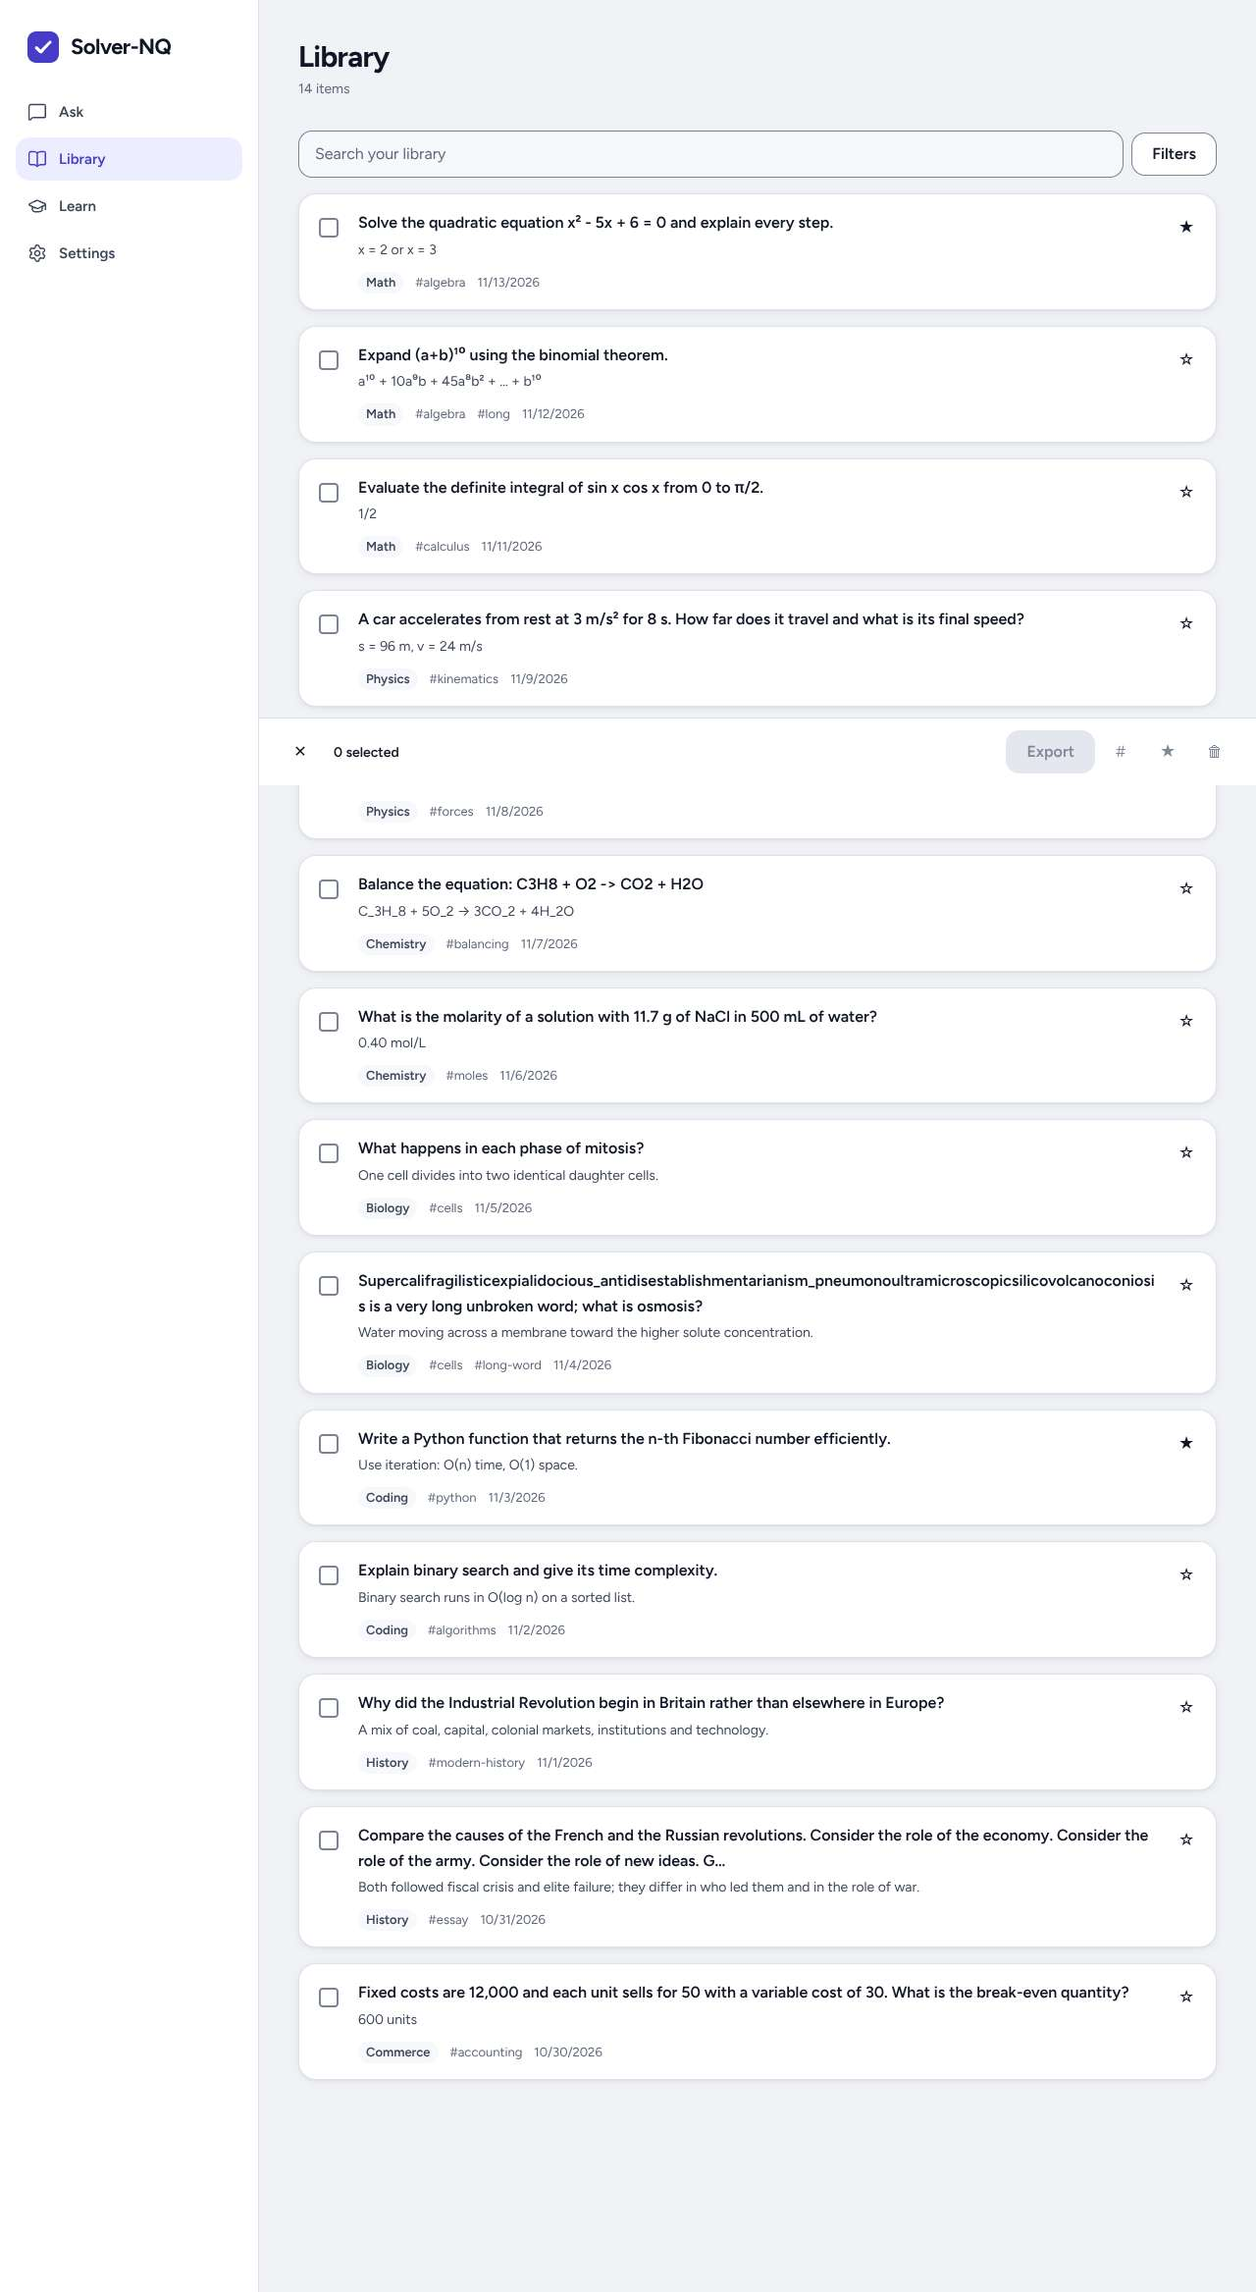
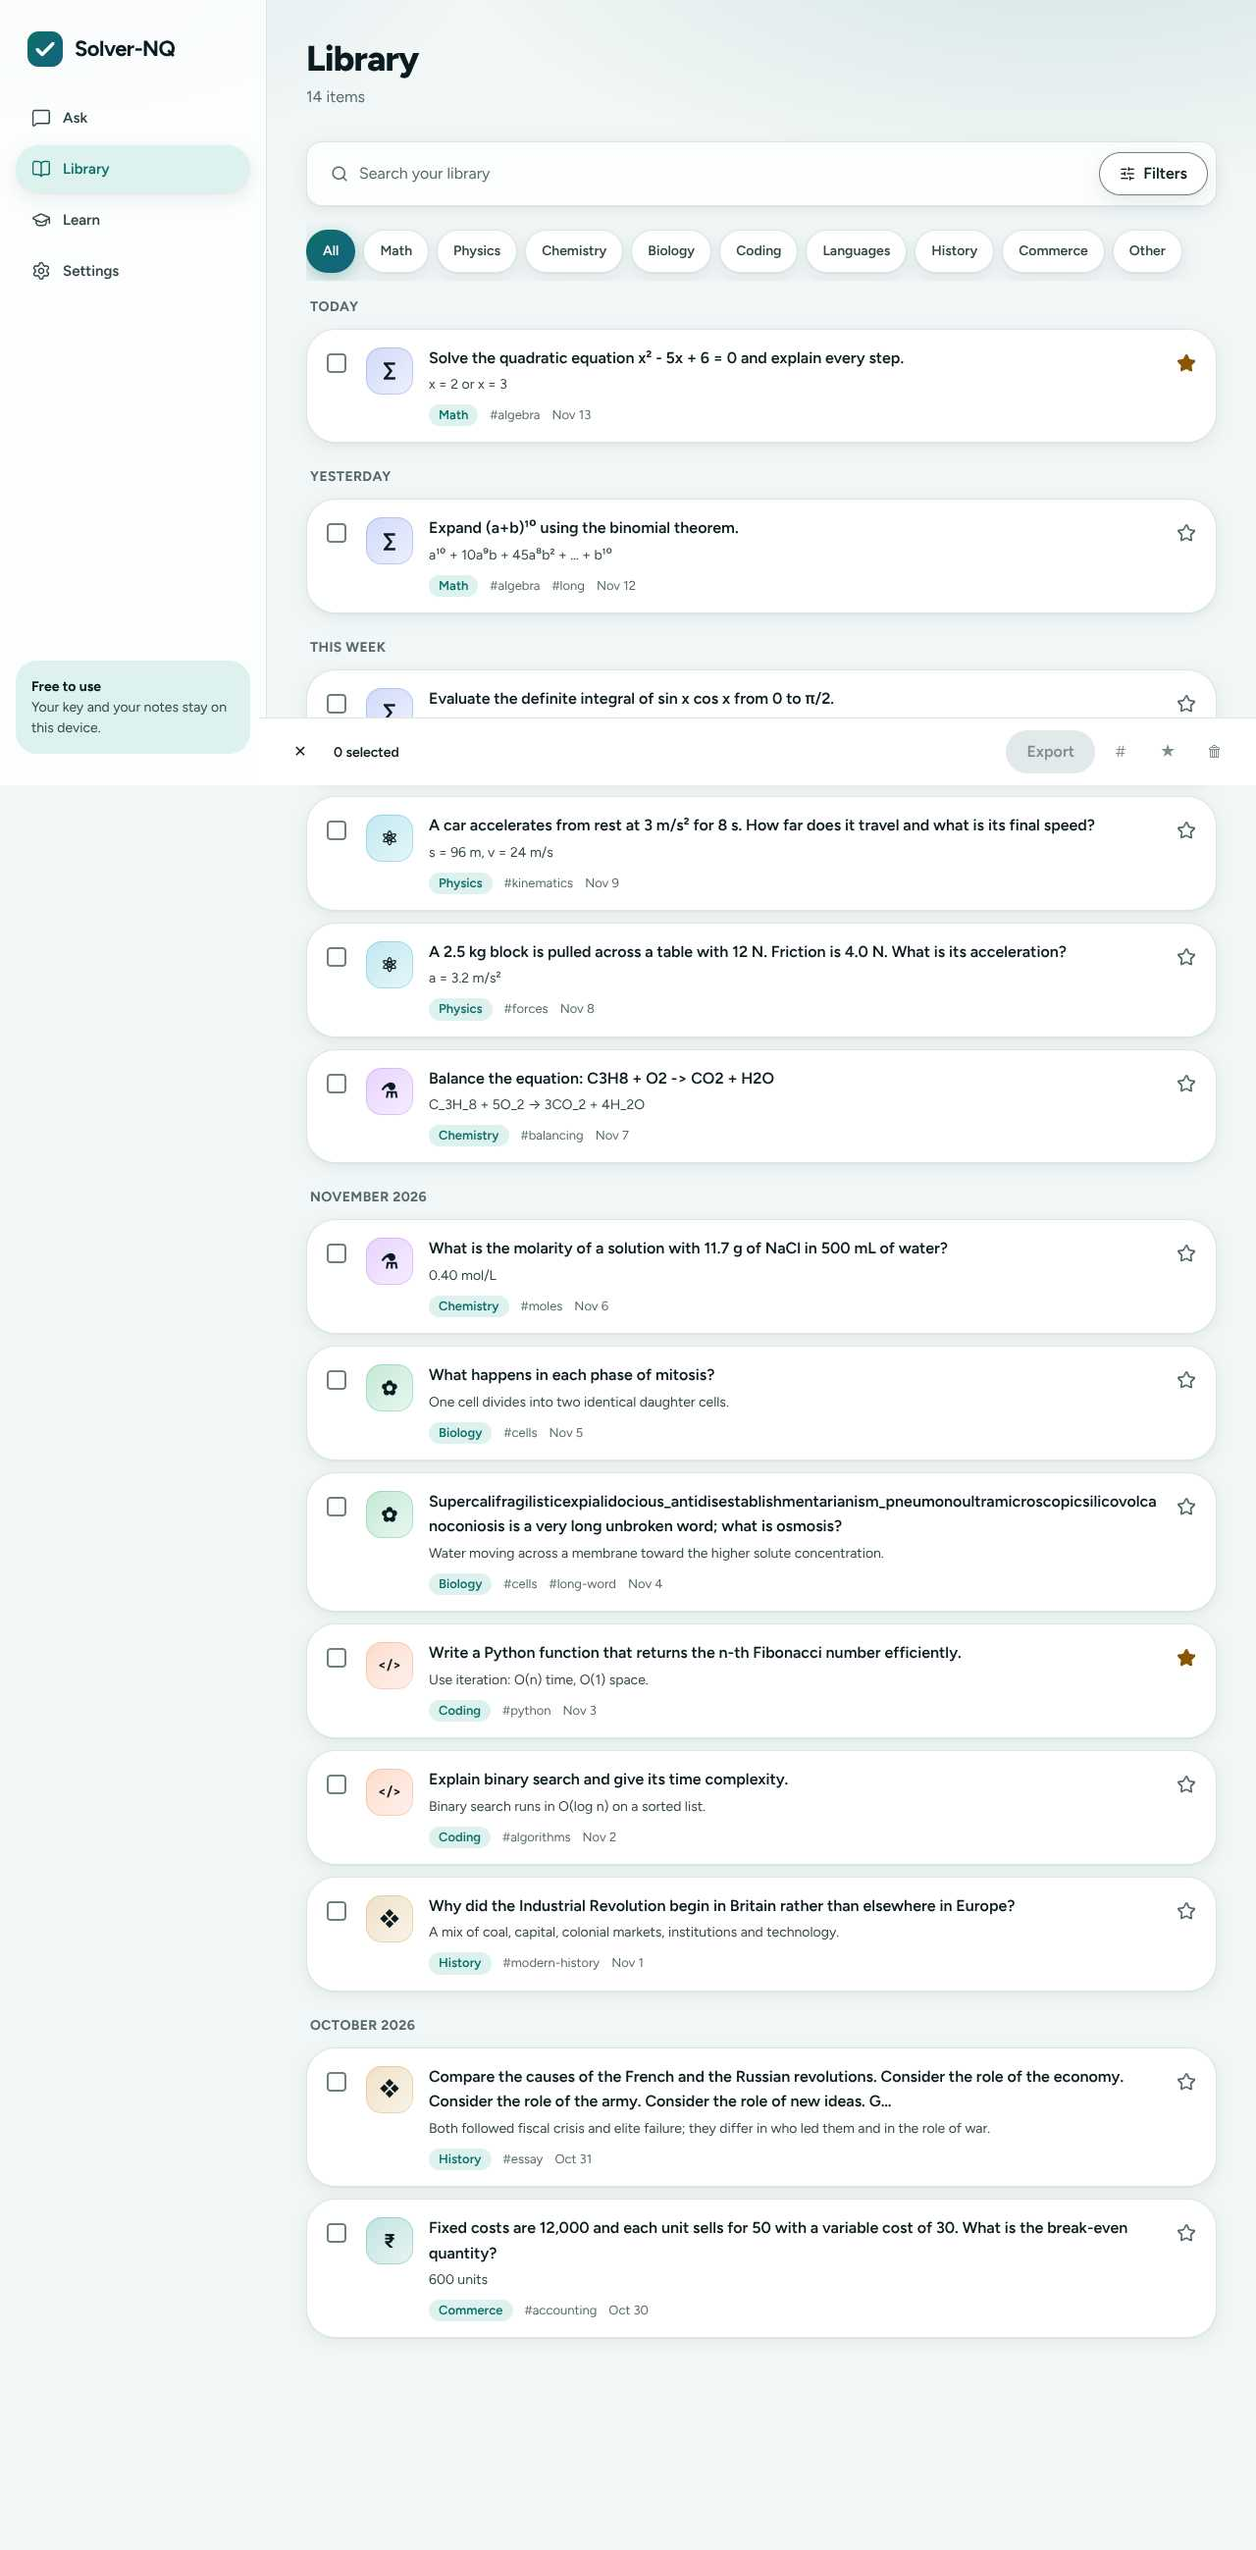
[AI-3] Design v3: Library (glass search, subject rail, stats, day groups, skeletons, rounder rows); screenshots; status

diff --git a/src/features/library/LibraryPage.tsx b/src/features/library/LibraryPage.tsx
@@ -1,8 +1,13 @@
 import { useEffect, useState, type KeyboardEvent } from 'react';
 import { Link, useNavigate } from 'react-router-dom';
-import { Button, EmptyState, Input, PageHeader, Section, Stack, Toolbar, cn } from '@/components/ui';
+import { Search, SlidersHorizontal } from 'lucide-react';
+import { Button, EmptyState, Input, PageHeader, Section, Stack, cn } from '@/components/ui';
 import { FilterChips } from './FilterChips';
 import { FilterSheet } from './FilterSheet';
+import { groupByDay, libraryStats } from './grouping';
+import { LibraryStats } from './LibraryStats';
+import { RowSkeletons } from './RowSkeleton';
+import { SubjectRail } from './SubjectRail';
 import { Row } from './Row';
 import { SelectionBar } from './SelectionBar';
 import { AddTagSheet, ManageTagsSheet } from './TagSheet';
@@ -11,7 +16,7 @@ import { useLibrary } from './useLibrary';
 const PAGE = 40; // render in pages so thousands of items stay fast (measured, see docs/status/AI-3.md)
 
 /** Arrow keys move between rows; Home/End jump to the first/last. */
-function rowKeys(e: KeyboardEvent<HTMLUListElement>) {
+function rowKeys(e: KeyboardEvent<HTMLElement>) {
   const keys = ['ArrowDown', 'ArrowUp', 'Home', 'End'];
   if (!keys.includes(e.key)) return;
   const rows = [...e.currentTarget.querySelectorAll<HTMLElement>('[data-row]')];
@@ -46,20 +51,25 @@ export default function LibraryPage() {
         actions={!selecting && !!items?.length ? <Button variant="secondary" onClick={lib.startSelecting}>Select</Button> : undefined} />
       <Section>
         <Stack gap={4}>
-          <Toolbar className="flex-nowrap">
-            <Input type="search" value={lib.query} onChange={e => lib.setQuery(e.target.value)} placeholder="Search your library"
-              aria-label="Search library" className="min-w-0 flex-1" />
-            <Button variant="secondary" className="shrink-0" onClick={() => setSheet('filters')} aria-label={active ? `Filters, ${active} active` : 'Filters'}>
-              Filters{active > 0 && <span className="ml-2 rounded-full bg-accent px-2 text-caption text-white">{active}</span>}
+          <div className="glass elev-1 sticky top-[calc(var(--sat)+0.5rem)] z-20 flex items-center gap-2 rounded-2xl p-2">
+            <div className="relative min-w-0 flex-1">
+              <Search size={18} aria-hidden className="pointer-events-none absolute left-4 top-1/2 -translate-y-1/2 text-muted" />
+              <Input type="search" value={lib.query} onChange={e => lib.setQuery(e.target.value)} placeholder="Search your library"
+                aria-label="Search library" className="w-full border-transparent bg-transparent pl-11 shadow-none" />
+            </div>
+            <Button variant="secondary" className="shrink-0 gap-2" onClick={() => setSheet('filters')} aria-label={active ? `Filters, ${active} active` : 'Filters'}>
+              <SlidersHorizontal size={16} aria-hidden /><span className="hidden sm:inline">Filters</span>{active > 0 && <span className="rounded-full bg-accent px-2 text-caption text-accent-ink">{active}</span>}
             </Button>
-          </Toolbar>
+          </div>
+          <SubjectRail value={lib.filters.subject} onChange={subject => lib.setFilters({ ...lib.filters, subject })} />
+          {!filtered && !!items?.length && !selecting && <LibraryStats {...libraryStats(items)} />}
           <FilterChips filters={lib.filters} onChange={lib.setFilters} />
 
-          {items === null && <p className="py-16 text-center text-muted">Loading…</p>}
+          {items === null && <RowSkeletons />}
           {items?.length === 0 && (filtered
             ? <EmptyState title="Nothing matches" text="Try a different search, or clear the filters."
                 action={<Button variant="secondary" onClick={() => { lib.setQuery(''); lib.setFilters({}); }}>Clear search and filters</Button>} />
-            : <EmptyState icon={<span className="text-4xl">📚</span>} title="Your library is empty"
+            : <EmptyState icon={<span className="brand-grad flex h-20 w-20 items-center justify-center rounded-3xl text-4xl shadow-glow" aria-hidden>📚</span>} title="Your library is empty"
                 text="Ask a question or scan one from your notebook. Every answer is saved here automatically, so you can find it again, even offline."
                 action={<div className="flex flex-wrap justify-center gap-3">
                   <Link to="/"><Button>Ask a question</Button></Link>
@@ -67,12 +77,19 @@ export default function LibraryPage() {
                 </div>} />)}
           {!!items?.length && (
             <>
-              <ul className="flex flex-col gap-4" onKeyDown={rowKeys}>
-                {items.slice(0, shown).map(it => (
-                  <Row key={it.q.id} item={it} selecting={selecting} selected={lib.selected.has(it.q.id)}
-                    onToggle={() => lib.toggle(it.q.id)} onStar={() => void lib.toggleStar(it.q.id, !it.q.starred)} />
+              <div className="flex flex-col gap-6" onKeyDown={rowKeys}>
+                {groupByDay(items.slice(0, shown)).map(g => (
+                  <section key={g.label} aria-label={g.label} className="flex flex-col gap-3">
+                    <h2 className="px-1 text-sm font-bold uppercase tracking-wide text-muted">{g.label}</h2>
+                    <ul className="flex flex-col gap-3">
+                      {g.items.map(it => (
+                        <Row key={it.q.id} item={it} selecting={selecting} selected={lib.selected.has(it.q.id)}
+                          onToggle={() => lib.toggle(it.q.id)} onStar={() => void lib.toggleStar(it.q.id, !it.q.starred)} />
+                      ))}
+                    </ul>
+                  </section>
                 ))}
-              </ul>
+              </div>
               {shown < items.length && (
                 <Button variant="secondary" className="mx-auto" onClick={() => setShown(n => n + PAGE)}>Show more ({items.length - shown})</Button>
               )}

diff --git a/src/features/library/Row.tsx b/src/features/library/Row.tsx
@@ -1,5 +1,6 @@
 import { useEffect, useRef, useState } from 'react';
 import { Link } from 'react-router-dom';
+import { Star } from 'lucide-react';
 import { IconButton, SubjectTile, cn } from '@/components/ui';
 import { mathToPlain } from '@/features/answer/plainText';
 import { getImageUrl, type LibraryItem } from '@/lib/db';
@@ -38,23 +39,23 @@ export function Row({ item, selecting, selected, onToggle, onStar }: Props) {
   const body = (
     <div className="flex min-w-0 flex-1 gap-4">
       {thumb
-        ? <img src={thumb} alt="" className="h-16 w-16 shrink-0 rounded-md object-cover" />
+        ? <img src={thumb} alt="" className="h-12 w-12 shrink-0 rounded-xl object-cover" />
         : <SubjectTile subject={q.subject} size={48} className="mt-0.5" />}
       <div className="min-w-0 flex-1">
         <p className="line-clamp-2 break-words text-base font-semibold text-ink">{snippet(q.text, 160) || 'Scanned question'}</p>
         {a && <p className="mt-1 line-clamp-2 break-words text-sm text-ink-2">{snippet(a.finalAnswer, 140)}</p>}
-        <div className="mt-3 flex flex-wrap items-center gap-x-3 gap-y-1 text-caption text-muted">
+        <div className="mt-2.5 flex flex-wrap items-center gap-x-3 gap-y-1 text-caption text-muted">
           <span className="rounded-full bg-accent-soft px-2.5 py-0.5 font-semibold text-accent">{subjectLabel(q.subject)}</span>
           {q.tags.slice(0, 3).map(t => <span key={t} className="max-w-[10rem] truncate">#{t}</span>)}
           {q.tags.length > 3 && <span>+{q.tags.length - 3}</span>}
-          <span className="whitespace-nowrap">{new Date(q.createdAt).toLocaleDateString()}</span>
+          <span className="whitespace-nowrap">{new Date(q.createdAt).toLocaleDateString(undefined, { month: 'short', day: 'numeric' })}</span>
         </div>
       </div>
     </div>
   );
 
   return (
-    <li className={cn('elev-1 flex min-h-[64px] items-start gap-2 rounded-lg p-4', selected && 'border-accent bg-accent-soft')}
+    <li className={cn('elev-1 flex min-h-[64px] items-start gap-2 rounded-xl p-4 transition active:scale-[.99]', selected && 'border-accent bg-accent-soft ring-2 ring-accent')}
       onPointerDown={down} onPointerUp={up} onPointerLeave={up} onPointerCancel={up}>
       {selecting && (
         // Decision: a bare checkbox (<Checkbox> needs visible text; the row already has it). The real input fills a 44 px
@@ -68,7 +69,7 @@ export function Row({ item, selecting, selected, onToggle, onStar }: Props) {
       {selecting
         ? <button type="button" data-row onClick={onToggle} className="min-w-0 flex-1 text-left">{body}</button>
         : <Link to={a ? `/answer/${a.id}` : '/'} data-row className="min-w-0 flex-1" onClick={e => { if (longPressed.current) e.preventDefault(); }}>{body}</Link>}
-      <IconButton label={q.starred ? 'Unstar' : 'Star'} aria-pressed={q.starred} className="-my-1 -mr-2" onClick={onStar}>{q.starred ? '★' : '☆'}</IconButton>
+      <IconButton label={q.starred ? 'Unstar' : 'Star'} aria-pressed={q.starred} className="-my-1 -mr-2" onClick={onStar}><Star size={20} strokeWidth={2} aria-hidden className={q.starred ? 'fill-[rgb(var(--warn))] text-warn' : 'text-muted'} /></IconButton>
     </li>
   );
 }

diff --git a/src/features/library/grouping.ts b/src/features/library/grouping.ts
@@ -1,0 +1,24 @@
+import type { LibraryItem } from '@/lib/db';
+
+export interface DayGroup { label: string; items: LibraryItem[] }
+
+const startOfDay = (t: number) => { const d = new Date(t); d.setHours(0, 0, 0, 0); return d.getTime(); };
+
+/** Labels for a newest-first list: Today, Yesterday, This week, then one group per month. */
+export function groupByDay(items: LibraryItem[], now = Date.now()): DayGroup[] {
+  const today = startOfDay(now); const day = 86_400_000;
+  const groups: DayGroup[] = [];
+  for (const it of items) {
+    const t = it.q.createdAt; const s = startOfDay(t);
+    const label = s >= today ? 'Today' : s >= today - day ? 'Yesterday' : s >= today - 6 * day ? 'This week'
+      : new Date(t).toLocaleDateString(undefined, { month: 'long', year: 'numeric' });
+    const last = groups[groups.length - 1];
+    if (last && last.label === label) last.items.push(it); else groups.push({ label, items: [it] });
+  }
+  return groups;
+}
+
+export function libraryStats(items: LibraryItem[], now = Date.now()) {
+  const week = startOfDay(now) - 6 * 86_400_000;
+  return { total: items.length, starred: items.filter(i => i.q.starred).length, thisWeek: items.filter(i => i.q.createdAt >= week).length };
+}

diff --git a/src/features/library/grouping.test.ts b/src/features/library/grouping.test.ts
@@ -1,0 +1,20 @@
+import { describe, expect, it } from 'vitest';
+import type { LibraryItem } from '@/lib/db';
+import { groupByDay, libraryStats } from './grouping';
+
+const NOW = new Date(2026, 10, 13, 15, 0).getTime(); const DAY = 86_400_000;
+const mk = (id: string, createdAt: number, starred = false) => ({ q: { id, createdAt, starred }, a: undefined }) as unknown as LibraryItem;
+
+describe('library grouping', () => {
+  it('groups newest-first items into Today, Yesterday, This week and months', () => {
+    const g = groupByDay([mk('a', NOW - 1000), mk('b', NOW - 2000), mk('c', NOW - DAY), mk('d', NOW - 3 * DAY), mk('e', NOW - 60 * DAY)], NOW);
+    expect(g.map(x => x.label).slice(0, 3)).toEqual(['Today', 'Yesterday', 'This week']);
+    expect(g[0].items).toHaveLength(2);
+    expect(g).toHaveLength(4);
+  });
+  it('handles an empty list', () => { expect(groupByDay([], NOW)).toEqual([]); });
+  it('counts totals, starred and this week', () => {
+    const s = libraryStats([mk('a', NOW, true), mk('b', NOW - 2 * DAY), mk('c', NOW - 30 * DAY, true)], NOW);
+    expect(s).toEqual({ total: 3, starred: 2, thisWeek: 2 });
+  });
+});

diff --git a/src/features/library/LibraryStats.tsx b/src/features/library/LibraryStats.tsx
@@ -1,0 +1,22 @@
+import { BookOpen, CalendarDays, Star } from 'lucide-react';
+
+interface Props { total: number; starred: number; thisWeek: number }
+
+/** Three small tiles above the list: how much is saved, starred, and added in the last 7 days. */
+export function LibraryStats({ total, starred, thisWeek }: Props) {
+  const tiles = [
+    { label: 'Saved', value: total, Icon: BookOpen }, { label: 'Starred', value: starred, Icon: Star },
+    { label: 'This week', value: thisWeek, Icon: CalendarDays },
+  ];
+  return (
+    <ul className="grid grid-cols-3 gap-3" aria-label="Library summary">
+      {tiles.map(({ label, value, Icon }) => (
+        <li key={label} className="elev-1 flex flex-col gap-1 rounded-xl p-3 lg:p-4">
+          <span className="flex h-8 w-8 items-center justify-center rounded-full bg-accent-soft text-accent"><Icon size={16} strokeWidth={2} aria-hidden /></span>
+          <span className="text-2xl font-extrabold leading-none tracking-tight text-ink">{value}</span>
+          <span className="text-caption font-semibold text-muted">{label}</span>
+        </li>
+      ))}
+    </ul>
+  );
+}

diff --git a/src/features/library/SubjectRail.tsx b/src/features/library/SubjectRail.tsx
@@ -1,0 +1,15 @@
+import { Chip } from '@/components/ui';
+import type { Subject } from '@/types';
+import { SUBJECTS } from './subjects';
+
+/** One-tap subject filter. Scrolls sideways inside its own box, so the page itself never scrolls sideways. */
+export function SubjectRail({ value, onChange }: { value?: Subject; onChange: (s?: Subject) => void }) {
+  return (
+    <div role="group" aria-label="Filter by subject" className="-mx-5 flex snap-x gap-2 overflow-x-auto px-5 py-2 [scrollbar-width:none] lg:mx-0 lg:flex-wrap lg:px-0 [&::-webkit-scrollbar]:hidden">
+      <Chip selected={!value} className="min-h-[44px] shrink-0 snap-start" onClick={() => onChange(undefined)}>All</Chip>
+      {SUBJECTS.map(s => (
+        <Chip key={s.id} selected={value === s.id} className="min-h-[44px] shrink-0 snap-start" onClick={() => onChange(value === s.id ? undefined : s.id)}>{s.label}</Chip>
+      ))}
+    </div>
+  );
+}

diff --git a/src/features/library/RowSkeleton.tsx b/src/features/library/RowSkeleton.tsx
@@ -1,0 +1,15 @@
+import { Skeleton } from '@/components/ui';
+
+/** Placeholder rows shown while the library loads (same height as real rows, so nothing jumps). */
+export function RowSkeletons({ count = 5 }: { count?: number }) {
+  return (
+    <ul className="flex flex-col gap-3" aria-busy="true" aria-label="Loading your library">
+      {Array.from({ length: count }, (_, i) => (
+        <li key={i} className="elev-1 flex gap-4 rounded-xl p-4">
+          <Skeleton className="h-12 w-12 shrink-0 rounded-xl" />
+          <div className="flex-1 space-y-2.5"><Skeleton className="h-4 w-4/5" /><Skeleton className="h-3.5 w-3/5" /><Skeleton className="h-5 w-24 rounded-full" /></div>
+        </li>
+      ))}
+    </ul>
+  );
+}

diff --git a/docs/status/AI-3.md b/docs/status/AI-3.md
@@ -49,3 +49,8 @@
 - Phase 3 task files for the other AIs: `docs/tasks/phase3-fixes/`.
 - Needs from others: none (CSP `connect-src` is already open). Real GitHub call is unverified (no token in tests); user should try Upload then Download on two devices.
 - Phase 5 prep (13 Nov): added `npm run e2e` (scripts/e2e.mjs): real-browser smoke test with mocked Gemini, 15 checks (ask, library, search, cut-off reply, bad key, 6 routes, no console errors). All pass on main. Finding for AI-2: with a single-model chain, the cooldown message says 'the next model in your list will answer' even when there is no other model.
+
+## Design v3: Library (13 Nov)
+- Library redesigned on the teal foundation: sticky glass search + Filters button, one-tap subject rail (44 px chips), stats tiles (Saved / Starred / This week), rows grouped under Today / Yesterday / This week / month headings, rounder cards, lucide star, skeleton rows while loading, branded empty state. New: grouping.ts (+3 tests), LibraryStats, SubjectRail, RowSkeleton.
+- Verified: typecheck, lint, 388 tests, e2e 15/15, `npm run shots -- /library` 0 layout findings, 0 axe violations (phone, laptop, light, dark, 320-430 px). Library screenshots refreshed.
+- Backup screen visuals belong to AI-1's lane in phase5-design; I did not touch them.
